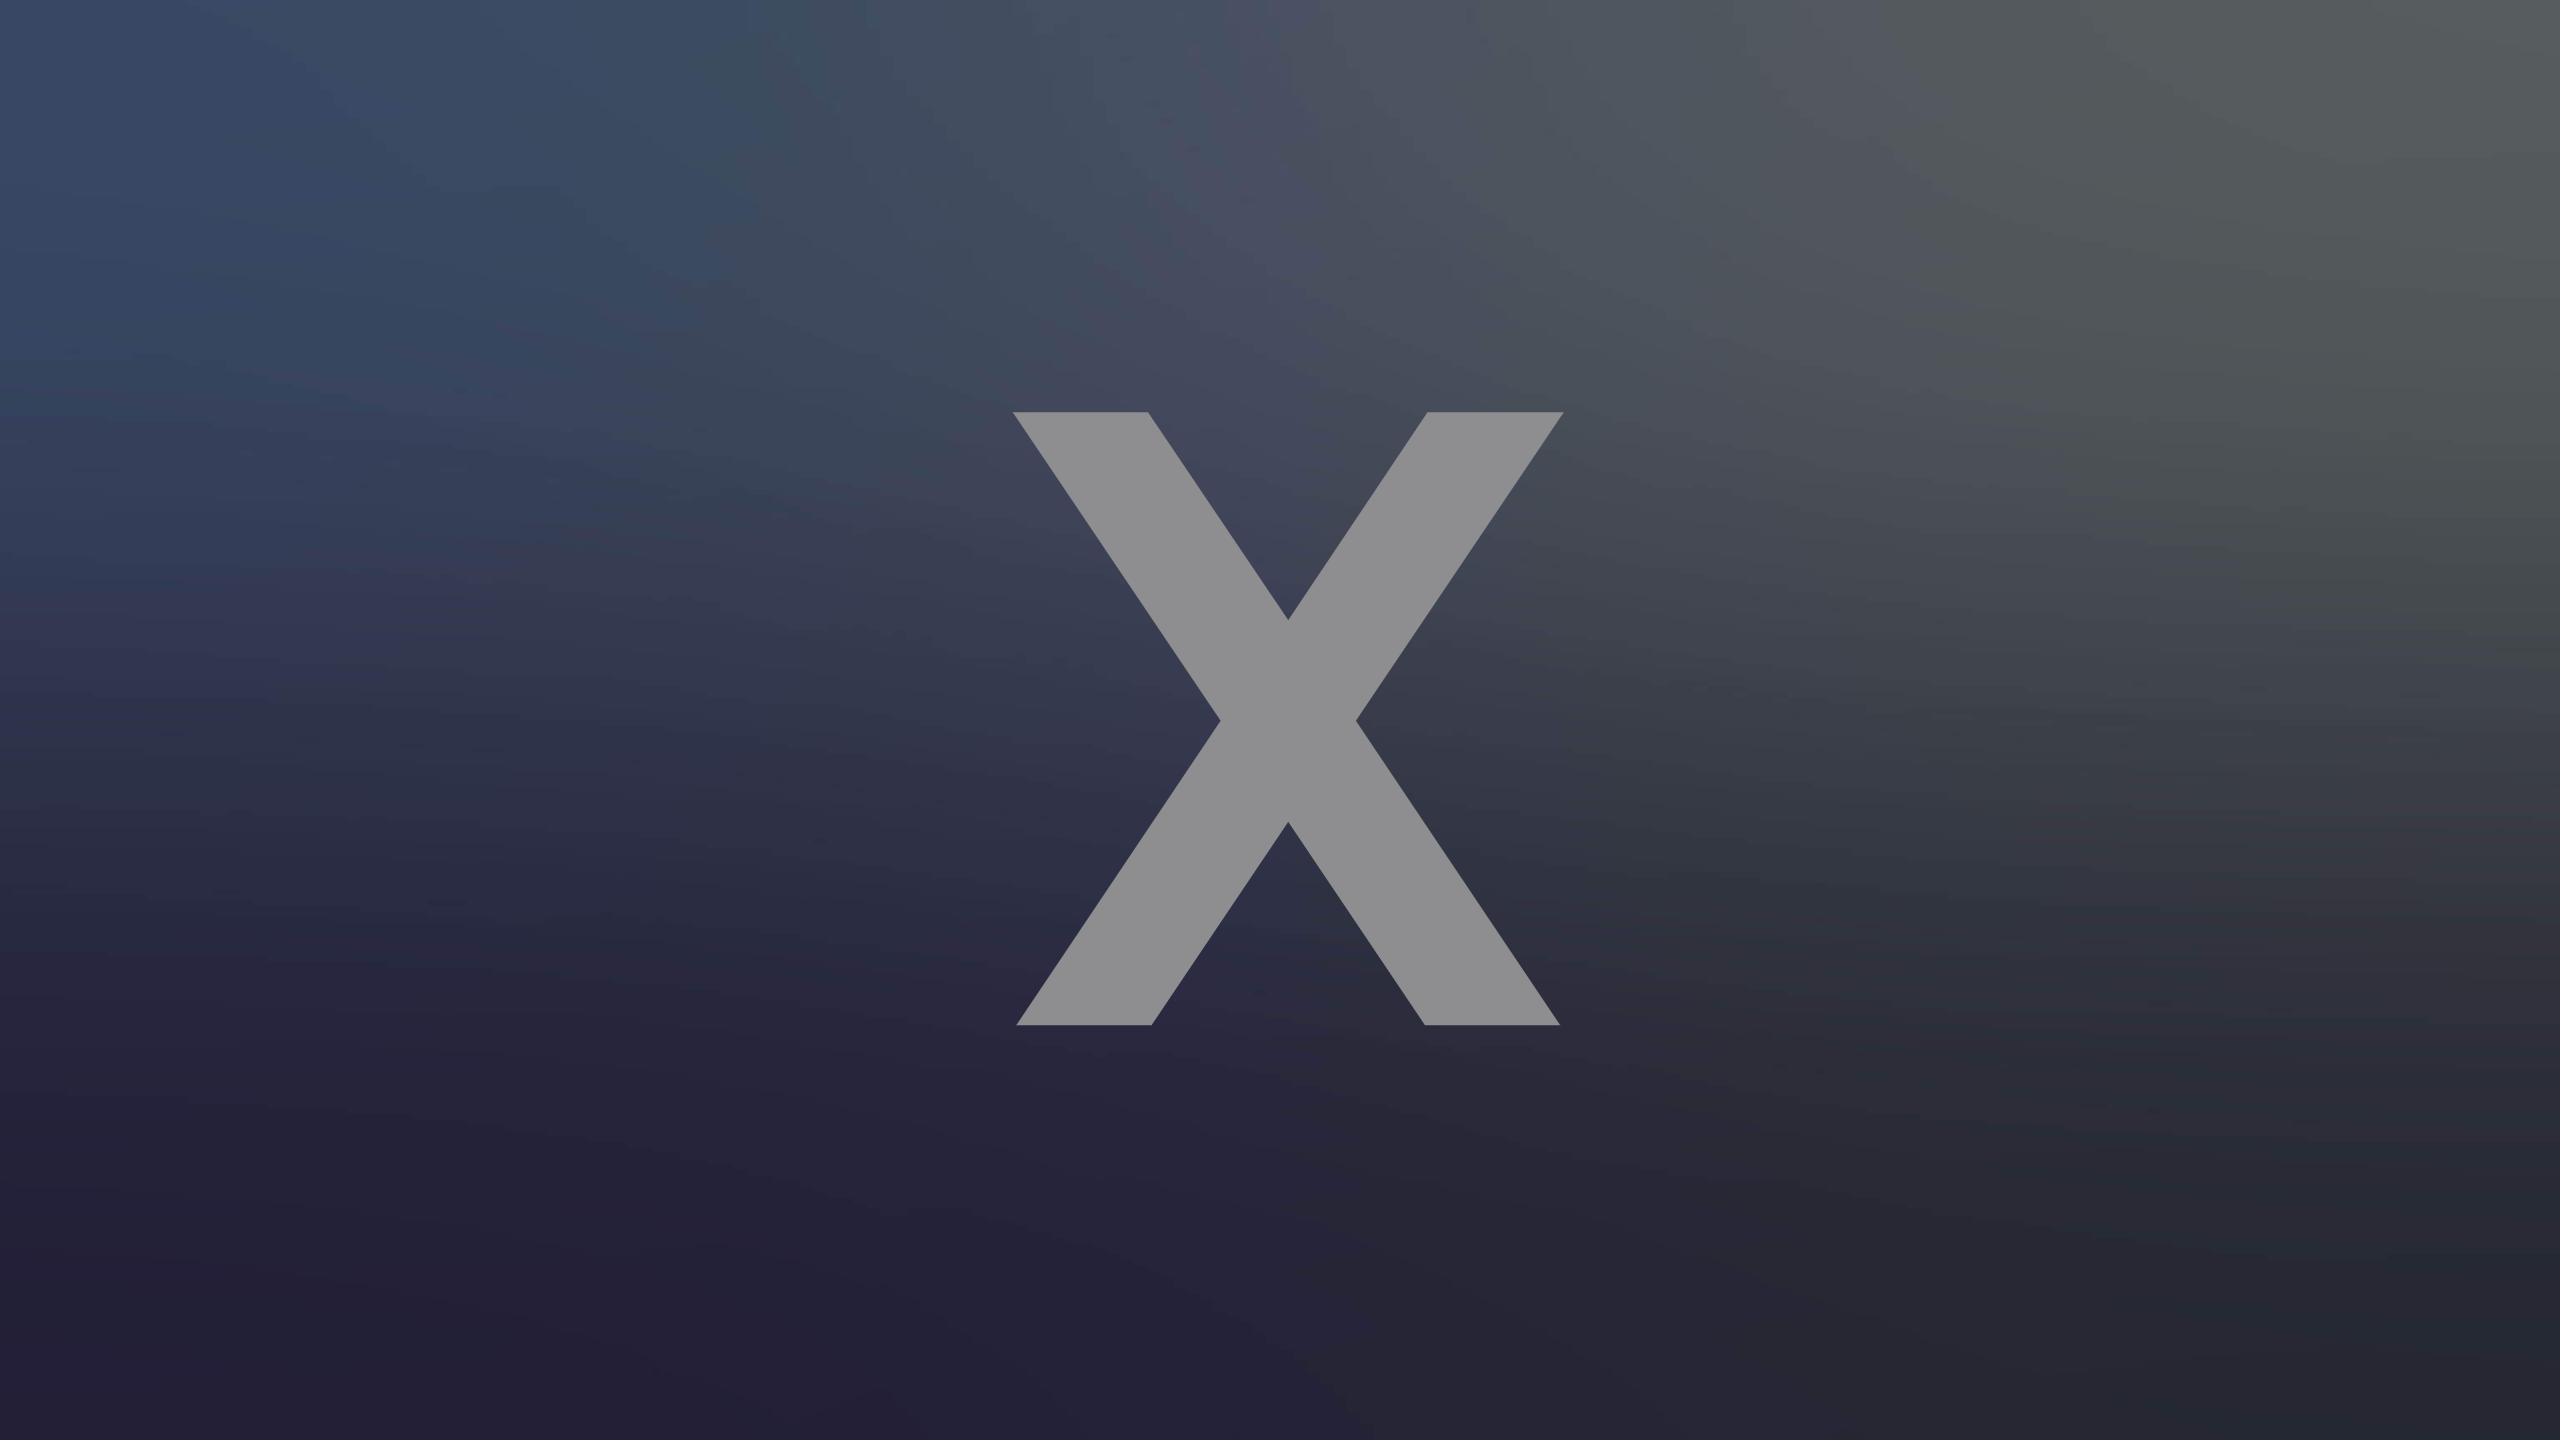
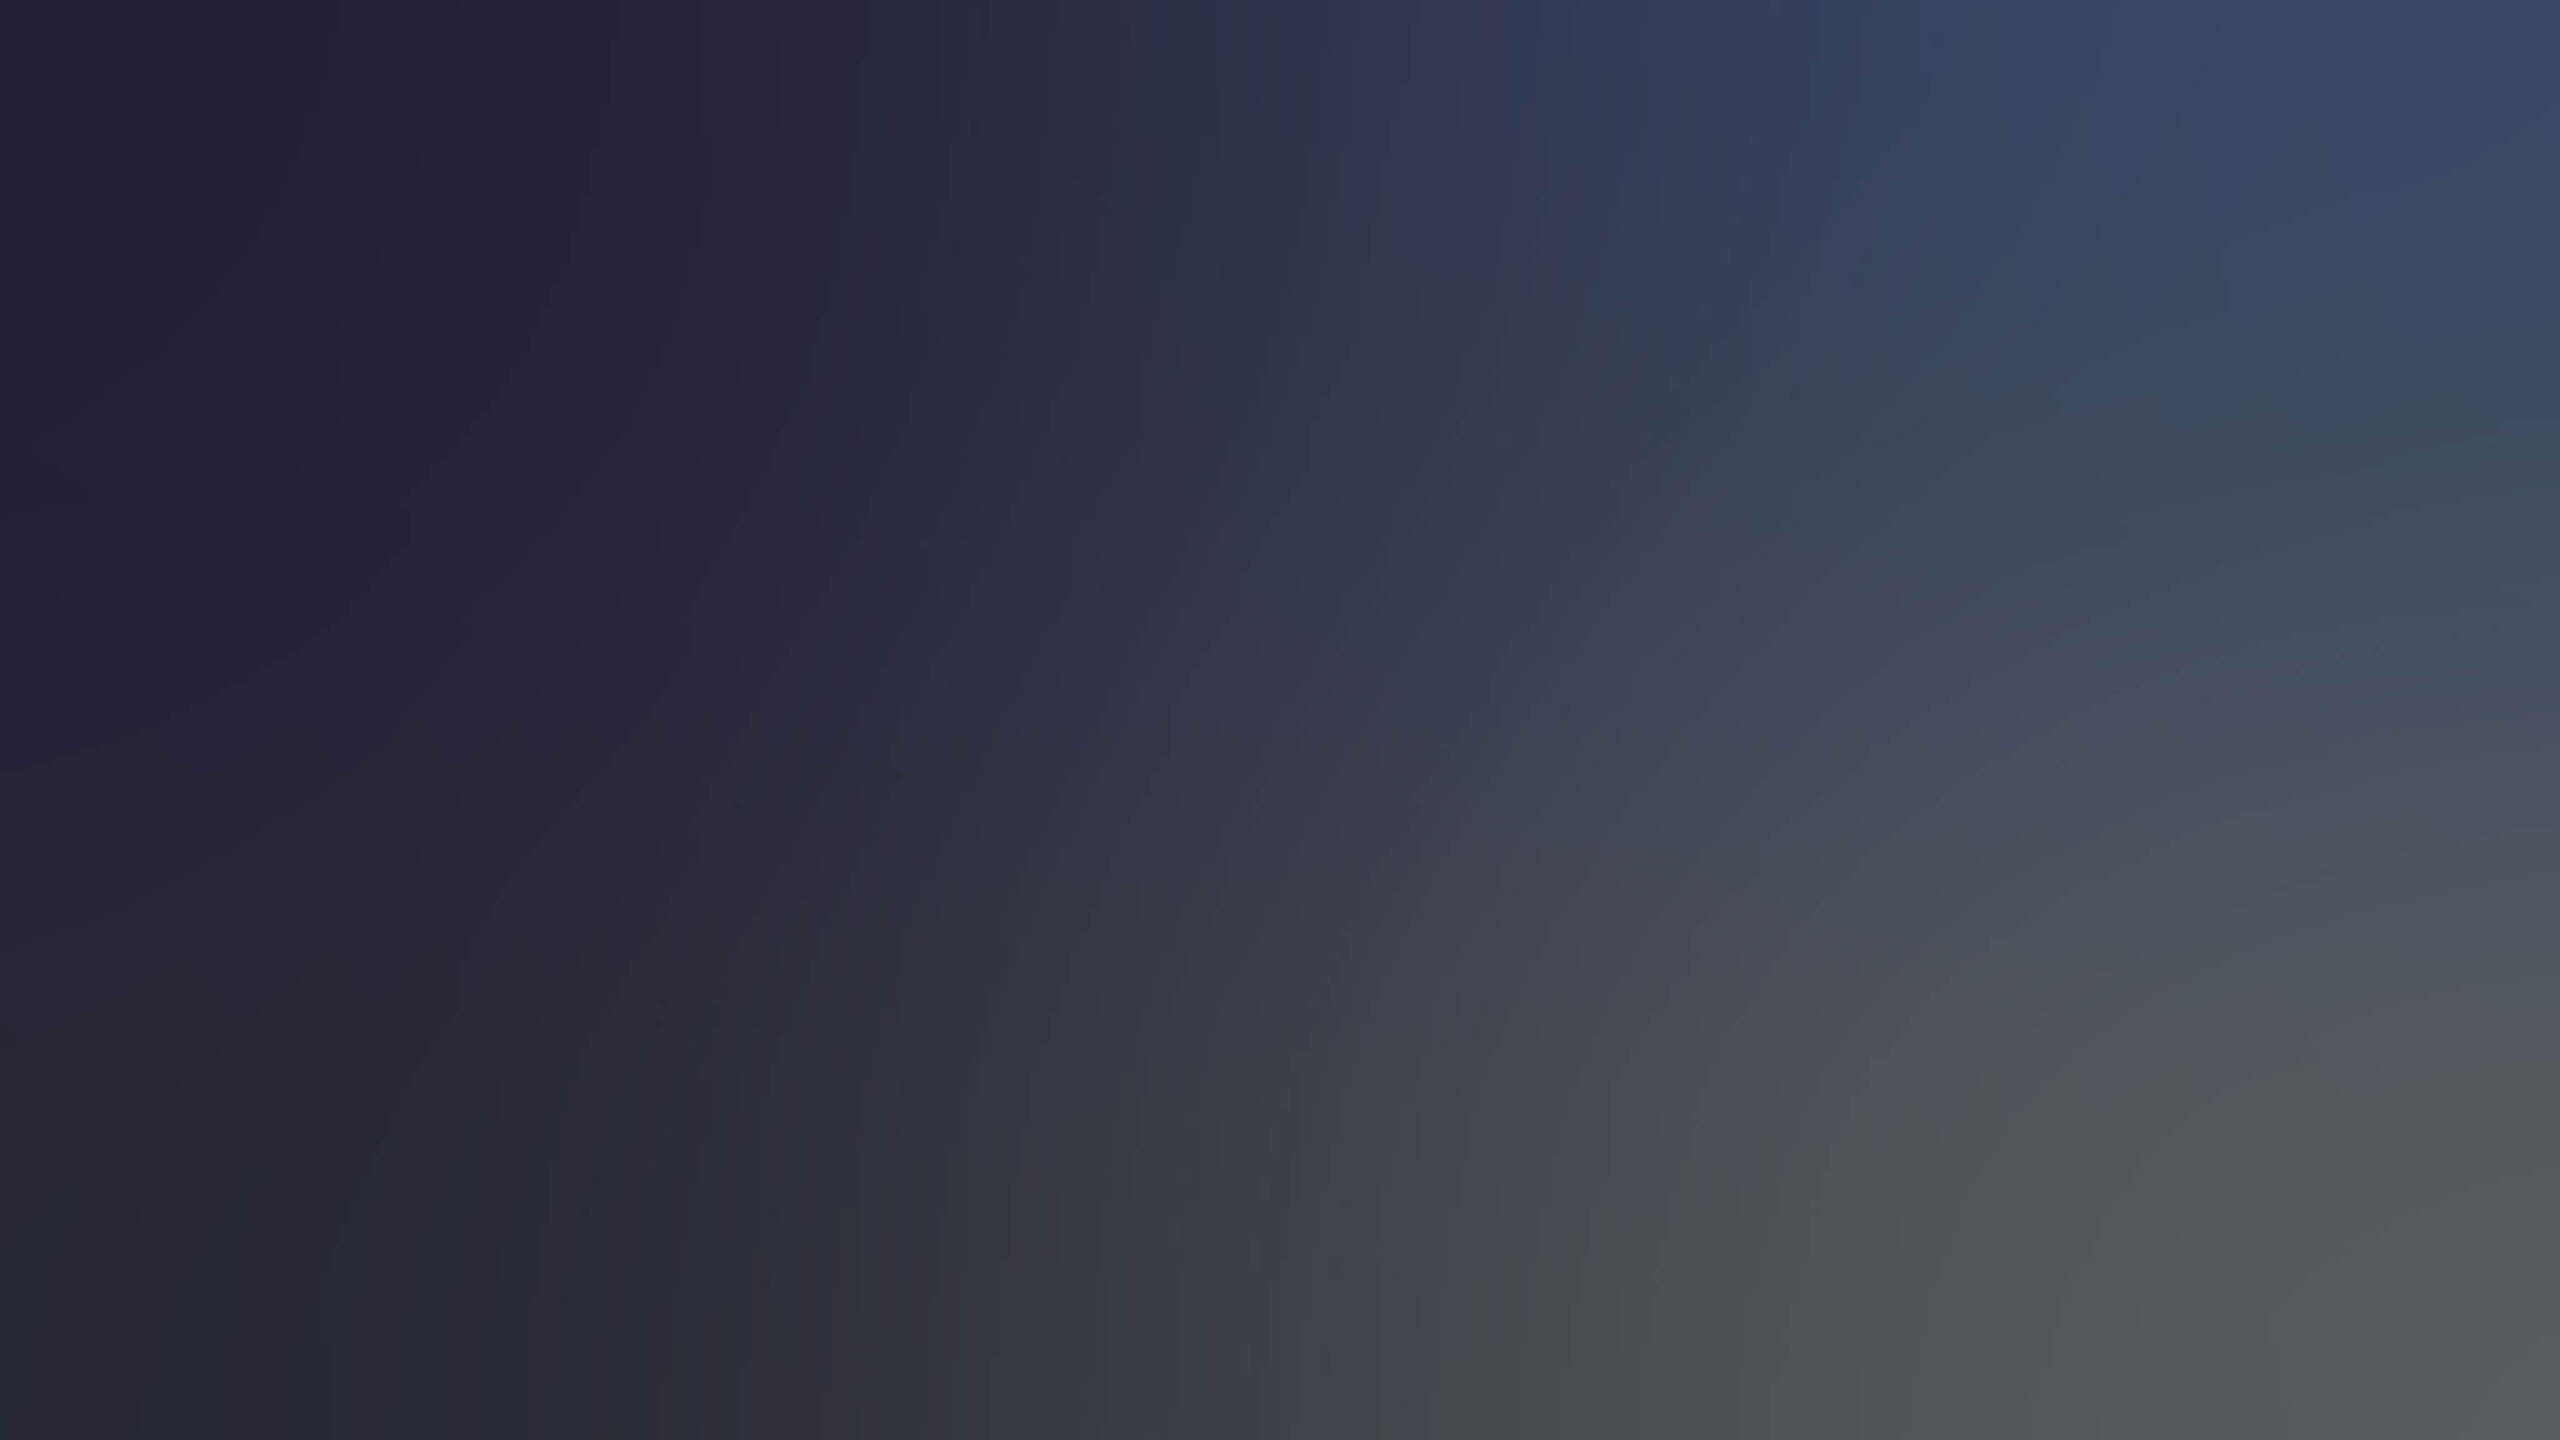
Updates

diff --git a/src/BruhStudios/BruhStudios.html b/src/BruhStudios/BruhStudios.html
@@ -1,46 +1,1 @@
-<!DOCTYPE html>
-<html>
-    <head>
-        <title>John Michael Productions</title>
-        <link rel ="stylesheet" href="../CSSFiles/Main.css">
-    </head>
-    <body>
-        <header>
-            <nav>
-                <h1>John</h1>
-            </nav>
-            <nav>
-                <ul>
-                    <li><a href="../XEngine/index.html">X-Engine</a></li>
-                    <li><a href="../Games/index.html">Games</a></li>
-                    <li><a href="../About/index.html">About</a></li>
-                </ul>
-            </nav>
-        </header>
-        <section>
-            <div>
-                <h1>Games</h1>
-            </div>
-        </section>
-    </body>
-</html>
-<!--<!DOCTYPE html>
-<html>
-    <head>
-        <title>Games</title>
-    </head>
-    <body>
-        <h1>Games</h1>
-        <a href="RainfallCity.html">Rainfall City: A Distant Future Game<br /></a>
-        <a href="TWAG.html">Turtle With A GUN<br /></a>
-        <a href="Lights.html">CODE NAME: Lights<br /></a>
-        <a href="BulletHelloween/BulletHelloween.html">Bullet Helloween<br/></a> 
-    </body>
-    <style>
-        body 
-        {
-            background-color: #000000;
-            color: #FFFFFF;
-        }
-    </style>
-</html>-->
+<canvas class="background"></canvas>

diff --git a/src/Homepage.html b/src/Homepage.html
@@ -19,6 +19,7 @@
             <!--Navigation Bar-->
         </header>
         <div class = "XEngine">
+            <h1 class = "XEngine">X</h1>
             <p class = "XEngine">X-Engine</p>
         </div>
         <!--Particle PlugIn-->
@@ -27,18 +28,19 @@
         <!--Particle PlugIn-->
     </body>
     <style>
-        div.XEngine
-        { padding-top: 610px; }
+        h1.XEngine
+        {
+            font-family: monospace;
+            font-size: 500px;
+            text-align: center;
+            color: #8A8383;
+        }
         p.XEngine 
         {
             font-family: monospace;
             font-size: 50px;
             color: #E0E0E0;
             text-align: center;
-        }
-        p.button
-        {
-            display: block;
         }
         </style>
     <script src="https://ajax.googleapis.com/ajax/libs/jquery/3.5.1/jquery.min.js"></script>

diff --git a/Libraries/Particles/gulpfile.js b/Libraries/Particles/gulpfile.js
@@ -1,4 +1,4 @@
-(function() {
+(function (){
   'use strict';
 
   var gulp = require('gulp'),
